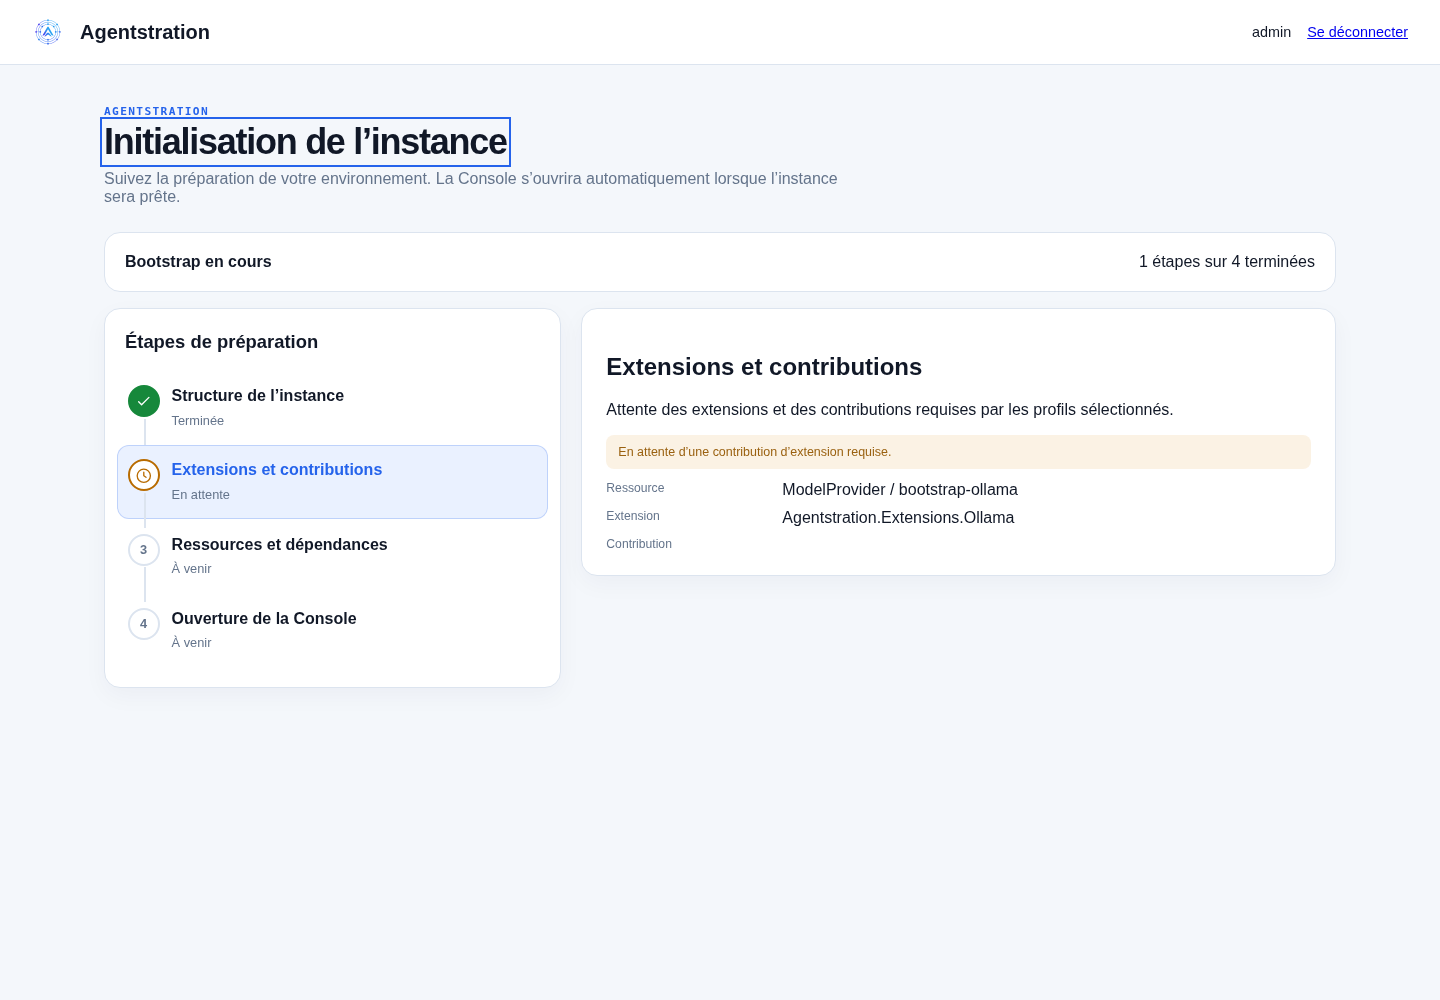
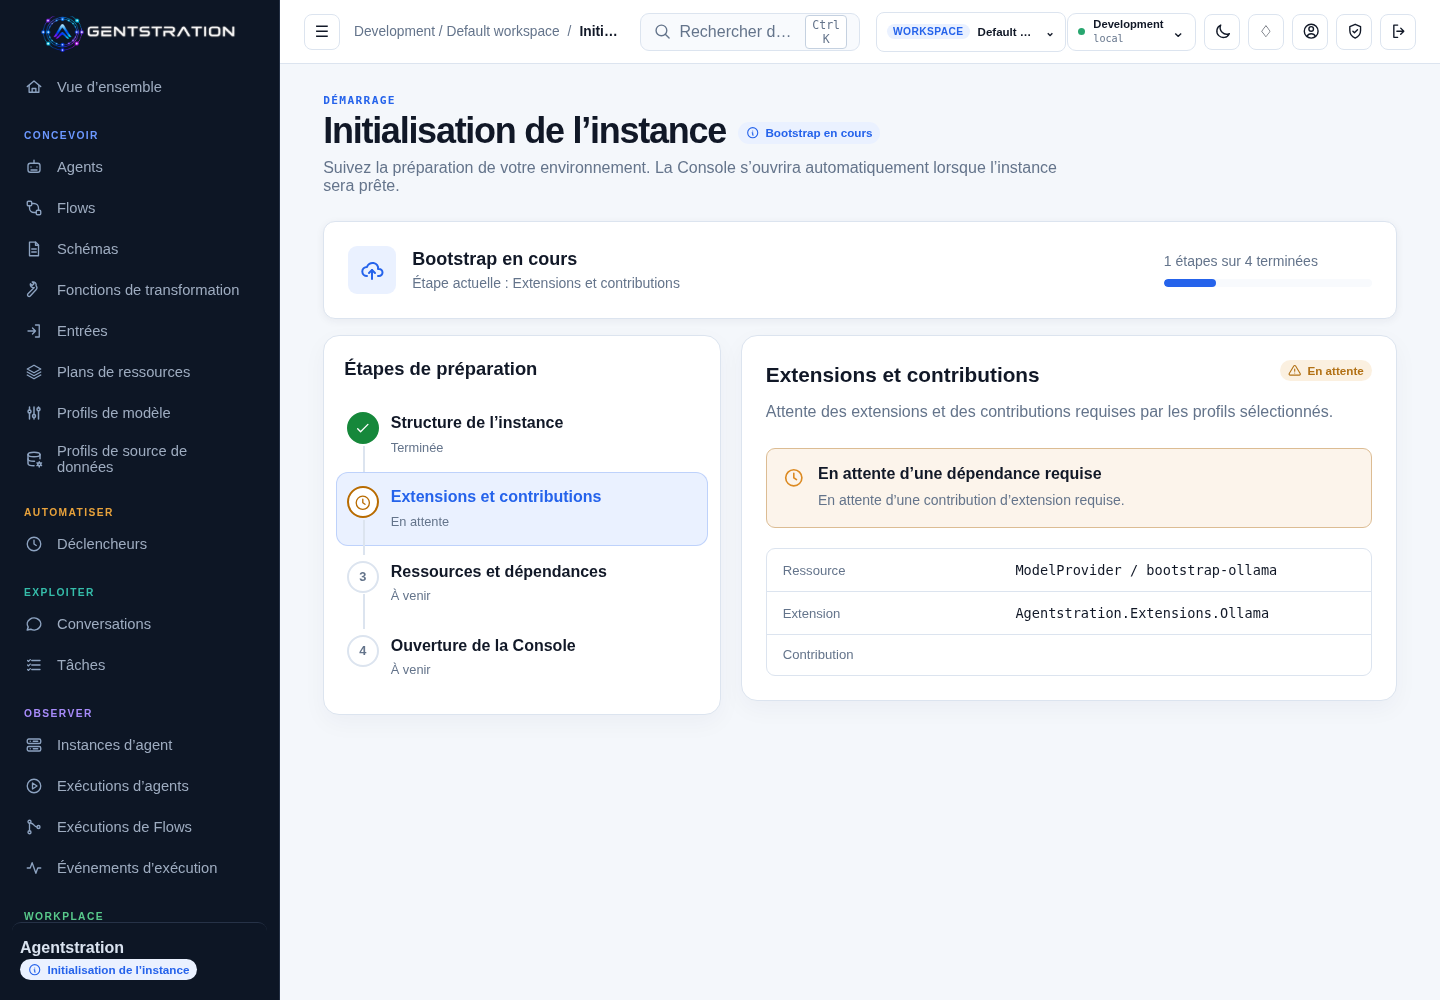
fix(console): integrate startup progress into the existing shell
Reuse MainLayout navigation, context, preferences and session actions while suspending operational status and command discovery. Improve stage and dependency presentation, keep mobile controls clear, and preserve Console context on the final redirect.

Refs #1250.

diff --git a/src/Agentstration.Console.Components/Components/Bootstrap/BootstrapStartupStepPanel.razor.css b/src/Agentstration.Console.Components/Components/Bootstrap/BootstrapStartupStepPanel.razor.css
@@ -1,0 +1,27 @@
+.startup-step-content { min-width: 0; }
+.startup-step-heading { display: flex; align-items: flex-start; flex-wrap: wrap; justify-content: space-between; gap: .75rem; }
+.startup-step-heading h2 { margin: 0; font-size: 1.3rem; line-height: 1.4; }
+.startup-step-description { margin: .6rem 0 1.5rem; color: var(--muted); line-height: 1.6; }
+.startup-dependency-callout { display: flex; align-items: flex-start; gap: .85rem; padding: 1rem; border: 1px solid color-mix(in srgb, var(--color-warning) 45%, var(--border)); border-radius: var(--radius-md); background: color-mix(in srgb, var(--color-warning) 9%, var(--surface)); color: var(--text); }
+.startup-dependency-callout > span { color: var(--color-warning); padding-top: .1rem; }
+.startup-dependency-callout ::deep .ui-icon { width: 1.35rem; height: 1.35rem; }
+.startup-dependency-callout p { margin: .4rem 0 0; font-size: .875rem; line-height: 1.55; color: var(--muted); }
+.startup-dependency-callout.is-failed { border-color: color-mix(in srgb, var(--color-danger) 35%, var(--border)); background: color-mix(in srgb, var(--color-danger) 6%, var(--surface)); }
+.startup-dependency-callout.is-failed > span { color: var(--color-danger); }
+.startup-resource-facts { margin: 1.25rem 0 0; border: 1px solid var(--border); border-radius: var(--radius-md); overflow: hidden; }
+.startup-resource-facts > div { display: grid; grid-template-columns: minmax(7rem, .65fr) minmax(0, 1fr); gap: .75rem; align-items: baseline; padding: .8rem 1rem; }
+.startup-resource-facts > div + div { border-top: 1px solid var(--border); }
+.startup-resource-facts dt { color: var(--muted); font-size: .82rem; }
+.startup-resource-facts dd { margin: 0; overflow-wrap: anywhere; font-size: .9rem; font-weight: 500; }
+.startup-resource-facts code { font-family: var(--font-family-mono); font-size: .85rem; }
+.startup-step-actions { display: flex; flex-wrap: wrap; justify-content: flex-end; margin: 1rem 0 0; }
+.startup-step-actions a { gap: .5rem; }
+.startup-resource-outcomes { border-top: 1px solid var(--border); margin-top: 1.5rem; padding-top: 1.25rem; }
+.startup-resource-outcomes h3 { margin: 0 0 .85rem; font-size: .9rem; color: var(--muted); font-weight: 600; }
+.startup-resource-metrics { display: grid; grid-template-columns: repeat(4, minmax(0, 1fr)); gap: .65rem; }
+.startup-resource-metrics ::deep .metric-card { padding: .85rem; min-width: 0; box-shadow: none; }
+.startup-resource-metrics ::deep .metric-card > div { align-items: flex-start; }
+.startup-resource-metrics ::deep .metric-label { font-size: .75rem; }
+.startup-resource-metrics ::deep strong { font-size: 1.35rem; }
+@media (max-width: 75rem) { .startup-resource-metrics { grid-template-columns: repeat(2, minmax(0, 1fr)); } }
+@media (max-width: 32rem) { .startup-resource-facts > div { grid-template-columns: minmax(0, 1fr); gap: .35rem; } .startup-step-actions a { width: 100%; justify-content: center; text-align: center; } }

diff --git a/src/Agentstration.Console.Components/Components/Pages/BootstrapStartupProgress.razor.css b/src/Agentstration.Console.Components/Components/Pages/BootstrapStartupProgress.razor.css
@@ -1,2 +1,13 @@
-.startup-progress-summary { display: flex; flex-wrap: wrap; gap: 1rem; align-items: center; justify-content: space-between; padding: 1.25rem; border: 1px solid var(--border); border-radius: 1rem; background: var(--surface); }
-.startup-progress-notice { padding: 1rem; border: 1px solid var(--warning, #d49a32); border-radius: .75rem; background: var(--surface); color: var(--text); }
+.startup-progress-summary { display: flex; flex-wrap: wrap; gap: 1.5rem; align-items: center; justify-content: space-between; padding: 1.5rem; border: 1px solid var(--border); border-radius: var(--radius-lg); background: var(--surface); box-shadow: var(--shadow-sm); }
+.startup-progress-summary-heading { display: flex; gap: 1rem; align-items: center; min-width: 0; }
+.startup-progress-summary-icon { display: grid; place-items: center; flex: 0 0 3rem; height: 3rem; border-radius: var(--radius-md); background: var(--primary-soft); color: var(--primary); }
+.startup-progress-summary-icon ::deep .ui-icon { width: 1.5rem; height: 1.5rem; }
+.startup-progress-summary-heading strong { font-size: 1.125rem; }
+.startup-progress-summary-heading p { margin: .35rem 0 0; color: var(--muted); font-size: .875rem; }
+.startup-progress-completion { display: grid; gap: .65rem; min-width: 13rem; color: var(--muted); font-size: .875rem; }
+.startup-progress-completion progress { display: block; width: 100%; height: .5rem; border: 0; border-radius: 1rem; overflow: hidden; background: var(--surface-2); accent-color: var(--primary); }
+.startup-progress-completion progress::-webkit-progress-bar { background: var(--surface-2); }
+.startup-progress-completion progress::-webkit-progress-value { background: var(--primary); border-radius: 1rem; }
+.startup-progress-completion progress::-moz-progress-bar { background: var(--primary); border-radius: 1rem; }
+.startup-progress-notice { padding: 1rem; border: 1px solid var(--warning, #d49a32); border-radius: var(--radius-md); background: var(--surface); color: var(--text); }
+@media (max-width: 48rem) { .startup-progress-summary { padding: 1.1rem; gap: 1rem; } .startup-progress-completion { width: 100%; } }

diff --git a/src/Agentstration.Web.Components/MainLayout.razor.css b/src/Agentstration.Web.Components/MainLayout.razor.css
@@ -1,0 +1,11 @@
+@media (max-width: 820px) {
+    .sidebar-footer { display: none; }
+}
+@media (max-width: 620px) {
+    .brand-lockup, .navigation-group > h2 { display: none; }
+    .topbar { grid-template-columns: auto minmax(0, 1fr); gap: .5rem; padding-inline: var(--space-3); }
+    .topbar-start { flex-shrink: 0; }
+    .topbar-actions { justify-content: flex-end; gap: .3rem; }
+    .context-switcher { flex: 0 1 5.5rem; min-width: 0; }
+    .context-switcher-trigger { min-width: 0; width: 100%; max-width: 5.5rem; }
+}

diff --git a/src/Agentstration.Web.Components/MainLayout.razor.cs b/src/Agentstration.Web.Components/MainLayout.razor.cs
@@ -10,6 +10,9 @@ namespace Agentstration.Web.Components;
 
 public partial class MainLayout
 {
+    [Parameter] public RenderFragment? StatusContent { get; set; }
+    [Parameter] public string? SectionTitle { get; set; }
+    [Parameter] public bool EnableCommandPalette { get; set; } = true;
 
     private sealed record NavigationItem(string LabelKey, string Url, string Icon, string Domain = "neutral", IReadOnlyList<string>? RequiredPermissions = null);
     private sealed record NavigationGroup(string LabelKey, string Tone, IReadOnlyList<NavigationItem> Items);
@@ -174,6 +177,7 @@ public partial class MainLayout
     {
         get
         {
+            if (!string.IsNullOrWhiteSpace(SectionTitle)) return SectionTitle;
             var path = "/" + NavigationManager.ToBaseRelativePath(NavigationManager.Uri).Split('?', '#')[0];
             return NavigationGroups.SelectMany(group => group.Items)
                 .Where(item => item.Url == "/" ? path == "/" : path.StartsWith(item.Url, StringComparison.OrdinalIgnoreCase))
@@ -200,7 +204,7 @@ public partial class MainLayout
         PlatformStatus.Changed += OnPlatformStatusChanged;
         ContextState.Changed += OnContextChanged;
         NavigationManager.LocationChanged += OnLocationChanged;
-        platformStatusRefresh = PlatformStatus.RefreshAsync(lifetimeCancellation.Token);
+        if (StatusContent is null) platformStatusRefresh = PlatformStatus.RefreshAsync(lifetimeCancellation.Token);
         await Task.WhenAll(
             ContextState.LoadAsync(ConsoleNavigationContext.GetScopeRef(NavigationManager.Uri), lifetimeCancellation.Token),
             Preferences.LoadAsync(lifetimeCancellation.Token));
@@ -222,7 +226,8 @@ public partial class MainLayout
             themeReady = true;
             StateHasChanged();
             selfReference = DotNetObjectReference.Create(this);
-            commandRegistration = await commandModule.InvokeAsync<IJSObjectReference>("registerCommandPalette", selfReference);
+            if (EnableCommandPalette)
+                commandRegistration = await commandModule.InvokeAsync<IJSObjectReference>("registerCommandPalette", selfReference);
             navigationTooltipRegistration = await navigationTooltipModule.InvokeAsync<IJSObjectReference>("registerCollapsedNavigationTooltips", shellElement);
             if (CultureNavigation.NavigateToPreferredCulture(NavigationManager, Preferences.Language)) return;
         }
@@ -244,6 +249,7 @@ public partial class MainLayout
 
     private void OpenCommandPalette()
     {
+        if (!EnableCommandPalette) return;
         commandPaletteOpen = true;
         commandQuery = string.Empty;
         resourceCommands = [];

diff --git a/tests/Agentstration.Web.Components.Tests/MainLayoutPlatformStatusTests.cs b/tests/Agentstration.Web.Components.Tests/MainLayoutPlatformStatusTests.cs
@@ -68,6 +68,24 @@ public sealed class MainLayoutPlatformStatusTests
         });
     }
 
+    [TestMethod]
+    public void FeatureStatusReusesTheConsoleFrameWithoutLoadingOperationalSources()
+    {
+        using var culture = new CultureScope("en-US");
+        using var context = CreateContext(out var provider);
+        var rendered = context.Render<MainLayout>(parameters => parameters
+            .Add(x => x.SectionTitle, "Feature preparation")
+            .Add(x => x.EnableCommandPalette, false)
+            .Add(x => x.StatusContent, builder => builder.AddContent(0, "Feature status"))
+            .Add(x => x.Body, builder => builder.AddContent(0, "Progress body")));
+        Assert.AreEqual(0, provider.Calls);
+        Assert.IsTrue(rendered.Find("[data-testid='console-command-trigger']").HasAttribute("disabled"));
+        Assert.AreEqual(1, rendered.FindAll("[data-testid='console-sidebar']").Count);
+        StringAssert.Contains(rendered.Find("[data-testid='console-breadcrumb']").TextContent, "Feature preparation");
+        StringAssert.Contains(rendered.Find(".sidebar-footer").TextContent, "Feature status");
+        StringAssert.Contains(rendered.Find("main").TextContent, "Progress body");
+    }
+
     private static BunitContext CreateContext(out ControlledPlatformStatusProvider provider)
     {
         var context = new BunitContext();
@@ -89,8 +107,12 @@ public sealed class MainLayoutPlatformStatusTests
         private readonly TaskCompletionSource<PlatformStatusResult> completion =
             new(TaskCreationOptions.RunContinuationsAsynchronously);
 
-        public Task<PlatformStatusResult> GetStatusAsync(CancellationToken cancellationToken) =>
-            completion.Task.WaitAsync(cancellationToken);
+        public int Calls { get; private set; }
+        public Task<PlatformStatusResult> GetStatusAsync(CancellationToken cancellationToken)
+        {
+            Calls++;
+            return completion.Task.WaitAsync(cancellationToken);
+        }
 
         public void Complete(PlatformStatusResult result) => completion.SetResult(result);
         public void Fail(Exception exception) => completion.SetException(exception);

diff --git a/src/Agentstration.Web/Hosting/BootstrapAdministrationAccess.cs b/src/Agentstration.Web/Hosting/BootstrapAdministrationAccess.cs
@@ -13,6 +13,14 @@ internal static class BootstrapAdministrationAccess
             "/api/bootstrap", "/api/internal/bff", "/api/notifications", "/api/navigation", "/api/console", "/_blazor" }
             .Any(prefix => path.StartsWithSegments(prefix));
 
+    // Let document navigations reach authentication and the post-authentication
+    // redirect. API/MCP/Hub traffic remains subject to the execution fence.
+    internal static bool IsConsoleNavigation(HttpRequest request) => HttpMethods.IsGet(request.Method)
+        && !new[] { "/api", "/mcp", "/hubs", "/health", "/_blazor", "/_framework", "/_content" }
+            .Any(prefix => request.Path.StartsWithSegments(prefix))
+        && request.GetTypedHeaders().Accept?.Any(value =>
+            value.MediaType.Equals("text/html", StringComparison.OrdinalIgnoreCase) && value.Quality is null or > 0) == true;
+
     internal static bool IsLoginOrAsset(PathString path) =>
         path == "/" || path == "/auth.css" || path == "/resource-name-fields.js" || (path.Value?.StartsWith("/Agentstration.Web.", StringComparison.Ordinal) == true
             && path.Value.EndsWith(".styles.css", StringComparison.Ordinal)) || new[] { "/account", "/Account", "/auth", "/login", "/logout", "/signin-oidc", "/signout-callback-oidc", "/_framework", "/_content", "/css", "/js", "/images", "/favicon.ico" }

diff --git a/tests/Agentstration.Management.Security.Tests/SecurityApiTests.BootstrapStartup.cs b/tests/Agentstration.Management.Security.Tests/SecurityApiTests.BootstrapStartup.cs
@@ -54,10 +54,14 @@ public sealed partial class SecurityApiTests
         using var overview = await administrator.GetAsync("/?source=login");
         Assert.AreEqual(HttpStatusCode.Redirect, overview.StatusCode);
         Assert.AreEqual(BootstrapStartupNavigation.ProgressUrl("/?source=login"), overview.Headers.Location?.OriginalString);
+        using var direct = await administrator.GetAsync("/agents/assistant?tab=overview");
+        Assert.AreEqual(HttpStatusCode.Redirect, direct.StatusCode);
+        Assert.AreEqual(BootstrapStartupNavigation.ProgressUrl("/agents/assistant?tab=overview"), direct.Headers.Location?.OriginalString);
         using var repair = await newAdmin.GetAsync("/api/extensionregistrations");
         Assert.AreEqual(HttpStatusCode.OK, repair.StatusCode);
         using var memberRepair = await member.GetAsync("/api/extensionregistrations");
         Assert.AreEqual(HttpStatusCode.Forbidden, memberRepair.StatusCode);
+        newAdmin.DefaultRequestHeaders.Accept.ParseAdd("text/html");
         using var tools = await newAdmin.GetAsync("/api/tools");
         Assert.AreEqual(HttpStatusCode.ServiceUnavailable, tools.StatusCode);
 

diff --git a/src/Agentstration.Web/Hosting/StandaloneHostComposition.cs b/src/Agentstration.Web/Hosting/StandaloneHostComposition.cs
@@ -192,7 +192,8 @@ internal static class StandaloneHostCompositionExtensions
                 && string.Equals(context.Request.Path.Value?.TrimEnd('/'), "/api/aep/enrollments/announce", StringComparison.OrdinalIgnoreCase);
             if (!startup.IsReady && !context.Request.Path.StartsWithSegments("/health") && !announcement
                 && !(startup.AdministrationReady && (BootstrapAdministrationAccess.IsAdministrationPath(context.Request.Path)
-                    || BootstrapAdministrationAccess.IsLoginOrAsset(context.Request.Path))))
+                    || BootstrapAdministrationAccess.IsLoginOrAsset(context.Request.Path)
+                    || BootstrapAdministrationAccess.IsConsoleNavigation(context.Request))))
             {
                 await Results.Problem(statusCode: StatusCodes.Status503ServiceUnavailable,
                     extensions: new Dictionary<string, object?> { ["code"] = "bootstrap_initializing" }).ExecuteAsync(context);

diff --git a/tests/Agentstration.Console.Components.Tests/BootstrapStartupProgressTests.cs b/tests/Agentstration.Console.Components.Tests/BootstrapStartupProgressTests.cs
@@ -70,6 +70,12 @@ public sealed class BootstrapStartupProgressTests
         context.Services.GetRequiredService<NavigationManager>().NavigateTo("/startup/progress?ReturnUrl=%2F%2Fexternal.example");
         var cut = context.Render<BootstrapStartupProgress>();
         var navigation = context.Services.GetRequiredService<NavigationManager>();
+        // The Console shell preserves context through a location-changing handler.
+        using var registration = navigation.RegisterLocationChangingHandler(change =>
+        {
+            ArgumentException.ThrowIfNullOrWhiteSpace(change.TargetLocation);
+            return ValueTask.CompletedTask;
+        });
         api.Timeout = timeout; api.FailRead = true;
         clock.Tick();
         cut.WaitForAssertion(() => StringAssert.Contains(cut.Markup, "Observation will resume"));

diff --git a/tests/Agentstration.Console.Web.Tests/ConsoleHostTests.cs b/tests/Agentstration.Console.Web.Tests/ConsoleHostTests.cs
@@ -240,7 +240,8 @@ public sealed class ConsoleHostTests
         var progress = await client.GetStringAsync("/startup/progress?ReturnUrl=%2F");
         StringAssert.Contains(progress, "bootstrap-startup-progress");
         StringAssert.Contains(progress, "Bootstrap in progress");
-        Assert.IsFalse(progress.Contains("console-sidebar", StringComparison.Ordinal));
+        StringAssert.Contains(progress, "console-sidebar");
+        Assert.IsFalse(progress.Contains("bootstrap-startup-header", StringComparison.Ordinal));
         startup.Ready = true;
         using var ready = await client.GetAsync("/");
         Assert.AreEqual(HttpStatusCode.OK, ready.StatusCode);

diff --git a/src/Agentstration.Web/Hosting/BootstrapStartupAdmissionMiddleware.cs b/src/Agentstration.Web/Hosting/BootstrapStartupAdmissionMiddleware.cs
@@ -13,8 +13,7 @@ internal sealed class BootstrapStartupAdmissionMiddleware(RequestDelegate next)
         {
             await next(context); return;
         }
-        var browser = HttpMethods.IsGet(context.Request.Method)
-            && context.Request.GetTypedHeaders().Accept?.Any(value => value.MediaType.Value == "text/html" && value.Quality != 0) == true;
+        var browser = BootstrapAdministrationAccess.IsConsoleNavigation(context.Request);
         var path = context.Request.Path;
         if (context.User.Identity?.IsAuthenticated == true)
         {

diff --git a/docs/ux/evidence/1250/startup-progress/README.md b/docs/ux/evidence/1250/startup-progress/README.md
@@ -14,7 +14,8 @@ an initially empty model catalog, then the exact `qwen3:1.7b` model. No live mod
 weights, cloud account, Docker or inference is involved. Generated credentials and
 shared keys stay in temporary fixture storage and are not included here.
 
-Chromium, 1440×1000/fr-FR and 390×844/en-US, reduced motion enabled.
+Chromium, 1440×1000/fr-FR and 390×844/en-US, light/dark themes and reduced motion.
+The updated captures use the existing Console MainLayout, not a separate application frame.
 
 ## Observations
 
@@ -35,8 +36,17 @@ Chromium, 1440×1000/fr-FR and 390×844/en-US, reduced motion enabled.
 - The authorized provider-configuration repair link opens the actual provider
   page even after failure. The logout link opens the existing confirmation page;
   submitting it returns to login.
-- Mobile cards stack without document overflow; the brand mark remains 32px.
-  No browser page errors were observed during the success path.
+- The existing Console sidebar, context selector, theme and session actions remain
+  present. A custom status slot prevents operational dashboard reads during startup;
+  the command palette is temporarily disabled. Direct HTML navigation to an Agent
+  route returns to progress, while API execution remains fenced.
+- Native stage progress, shared status badges and metric cards present real phase
+  completion and outcomes; no global work-completion percentage is invented.
+- Light/dark preference changes work while pending. Mobile cards stack without
+  document overflow; the menu and context selector do not overlap, and the sidebar
+  health footer stays hidden in the mobile navigation bar. The root transition
+  also works with the standard Console context-preservation handler.
+- No browser page errors were observed during the success path.
 
 Network read failures/timeouts and subsequent recovery are covered by component
 regressions with a controlled clock. Real HTTP security regressions separately
@@ -54,7 +64,9 @@ new deferred #1251 scenario.
 
 - [Delayed contribution, desktop FR](desktop-contributions-fr.png)
 - [Model dependency, desktop FR](desktop-model-wait-fr.png)
-- [Model dependency, mobile EN](mobile-model-wait-en.png)
+- [Model dependency, dark desktop FR](desktop-model-wait-dark-fr.png)
+- [Preparation steps, mobile EN](mobile-model-wait-en.png)
+- [Model dependency details, mobile EN](mobile-detail-en.png)
 - [Terminal model timeout, desktop FR](desktop-failed-fr.png)
 
 The first delivery observes the current process-local startup attempt. It does
